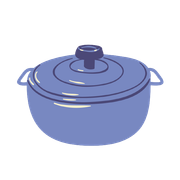
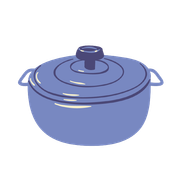
Édition Boultons : icônes Android (cocotte, dont maskable) dans le manifeste ; défilement vers les catégories aligné sous l'en-tête

diff --git a/nuxt.config.ts b/nuxt.config.ts
@@ -177,11 +177,12 @@ export default defineNuxtConfig({
       display: 'standalone',
       theme_color: buildEdition.theme.themeColor.light,
       background_color: buildEdition.theme.backgroundColor,
-      // Icônes générées par `npm run pwa:icons` (scripts/generate-pwa-icons.mjs).
+      // Icônes de l'édition de BUILD (`brand.icons.pwa`) : toque générée par
+      // `npm run pwa:icons`, cocotte Boultons par `npm run icons:boultons`.
       icons: [
-        { src: '/pwa-192x192.png', sizes: '192x192', type: 'image/png' },
-        { src: '/pwa-512x512.png', sizes: '512x512', type: 'image/png' },
-        { src: '/maskable-icon-512x512.png', sizes: '512x512', type: 'image/png', purpose: 'maskable' }
+        { src: buildEdition.brand.icons.pwa.any192, sizes: '192x192', type: 'image/png' },
+        { src: buildEdition.brand.icons.pwa.any512, sizes: '512x512', type: 'image/png' },
+        { src: buildEdition.brand.icons.pwa.maskable512, sizes: '512x512', type: 'image/png', purpose: 'maskable' }
       ]
     },
     workbox: {
@@ -191,7 +192,7 @@ export default defineNuxtConfig({
       navigateFallback: null,
       // App shell : JS/CSS de Nuxt, icônes, manifeste. Les images de
       // catégories et les polices sont mises en cache à la demande.
-      globPatterns: ['_nuxt/**/*.{js,css}', '*.{svg,png,ico,webmanifest}'],
+      globPatterns: ['_nuxt/**/*.{js,css}', '*.{svg,png,ico,webmanifest}', 'editions/**/*.png'],
       cleanupOutdatedCaches: true,
       runtimeCaching: [
         {

diff --git a/shared/editions/boultons.ts b/shared/editions/boultons.ts
@@ -22,12 +22,17 @@ export const boultonsEdition: EditionConfig = {
     // Couleur d'origine du nom (rgb(123, 136, 189)) : 5,2:1 sur le fond
     // sombre slate-900, gardée telle quelle dans les deux modes.
     nameColor: { light: '#7b88bd', dark: '#7b88bd' },
-    // Cocotte d'origine (générée depuis /images/logo.png).
+    // Cocotte d'origine (scripts/generate-edition-icons.mjs, depuis /images/logo.png).
     icons: {
       svg: null,
       png32: '/editions/boultons/favicon-32.png',
       png48: '/editions/boultons/favicon-48.png',
-      appleTouch: '/editions/boultons/apple-touch-icon.png'
+      appleTouch: '/editions/boultons/apple-touch-icon.png',
+      pwa: {
+        any192: '/editions/boultons/pwa-192x192.png',
+        any512: '/editions/boultons/pwa-512x512.png',
+        maskable512: '/editions/boultons/maskable-icon-512x512.png'
+      }
     }
   },
   theme: {

diff --git a/app/components/home/HomeBoultons.vue b/app/components/home/HomeBoultons.vue
@@ -62,7 +62,7 @@
     </section>
 
     <!-- Catégories (illustrations) -->
-    <section id="categories" class="scroll-mt-20 py-12 md:scroll-mt-24 md:py-16" aria-labelledby="categories-title">
+    <section id="categories" class="scroll-mt-[calc(3.5rem+1px)] py-12 md:scroll-mt-[calc(4rem+1px)] md:py-16" aria-labelledby="categories-title">
       <div class="mb-8 text-center md:mb-12">
         <h2 id="categories-title" class="mb-3 font-serif text-3xl font-semibold text-highlighted md:text-4xl">
           {{ $t('home.categories.titleBoultons') }}

diff --git a/shared/editions/types.ts b/shared/editions/types.ts
@@ -76,6 +76,13 @@ export interface EditionIcons {
   png48: string | null
   /** PNG 180 × 180 sur fond opaque (raccourci iOS). */
   appleTouch: string
+  /** Icônes du manifeste PWA (écran d'accueil Android), figées au build. */
+  pwa: {
+    any192: string
+    any512: string
+    /** 512 × 512, fond plein cadre, motif dans le cercle de sécurité (80 %). */
+    maskable512: string
+  }
 }
 
 export interface EditionHome {

diff --git a/shared/editions/generic.ts b/shared/editions/generic.ts
@@ -24,7 +24,12 @@ export const genericEdition: EditionConfig = {
       svg: '/favicon.svg',
       png32: '/favicon-32.png',
       png48: null,
-      appleTouch: '/apple-touch-icon.png'
+      appleTouch: '/apple-touch-icon.png',
+      pwa: {
+        any192: '/pwa-192x192.png',
+        any512: '/pwa-512x512.png',
+        maskable512: '/maskable-icon-512x512.png'
+      }
     }
   },
   theme: {

diff --git a/DEVELOPER.md b/DEVELOPER.md
@@ -561,7 +561,9 @@ restent dans `i18n/locales/*.json` (ex. `footer.copyright` reçoit `{site}`).
 **Icônes de l'onglet** : `brand.icons` (SVG facultatif, PNG 32 et 48, raccourci iOS 180)
 posées par `plugins/edition.ts`. Boultons : cocotte d'origine générée depuis
 `public/images/logo.png` dans `public/editions/boultons/` ; générique : toque terracotta.
-Les icônes du manifeste PWA (écran d'accueil Android) restent la toque dans les deux éditions.
+Les icônes du manifeste PWA (écran d'accueil Android : `brand.icons.pwa`, dont une version
+« maskable ») suivent l'édition de **build**. Régénérer les icônes Boultons après un changement
+de logo : `npm run icons:boultons` (`scripts/generate-edition-icons.mjs`).
 
 **Ajouter une édition** : 1) ajouter l'identifiant à `EDITION_IDS` (`types.ts`) ; 2) créer
 `shared/editions/<id>.ts` (`EditionConfig` complète : TypeScript signale tout oubli) ;
